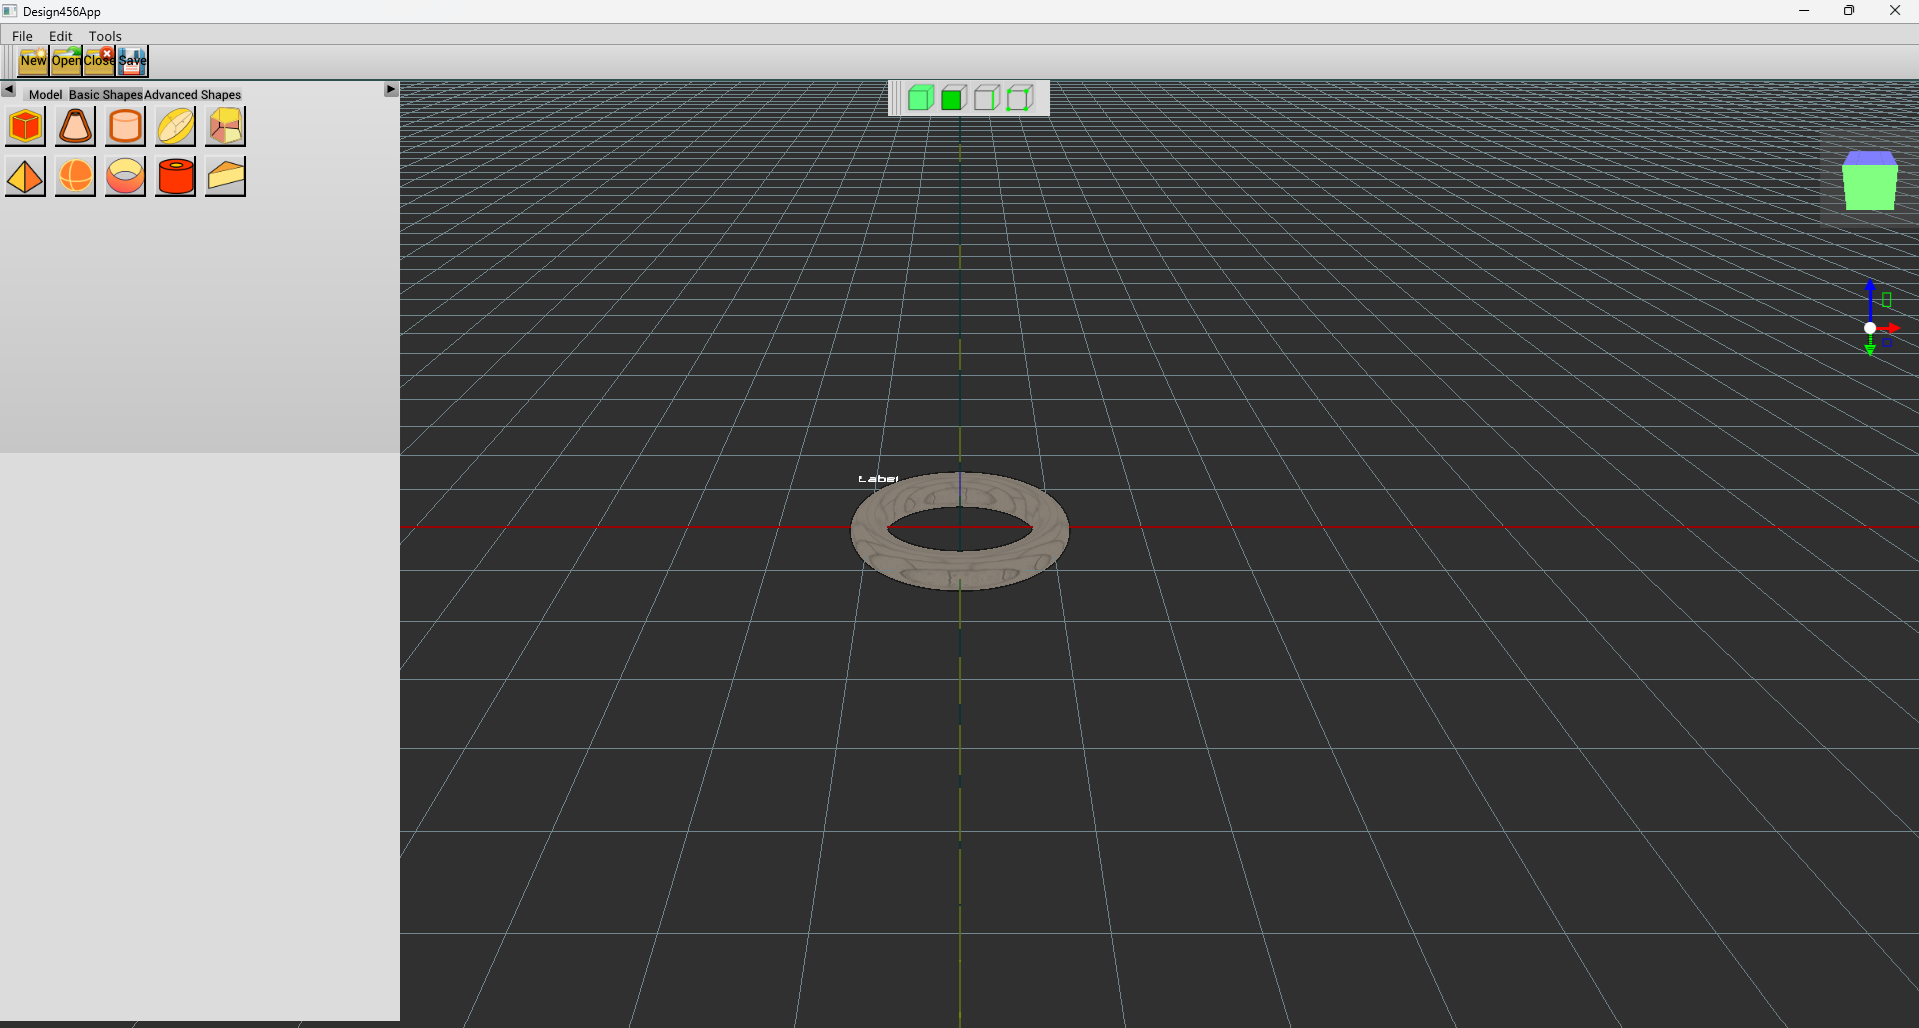
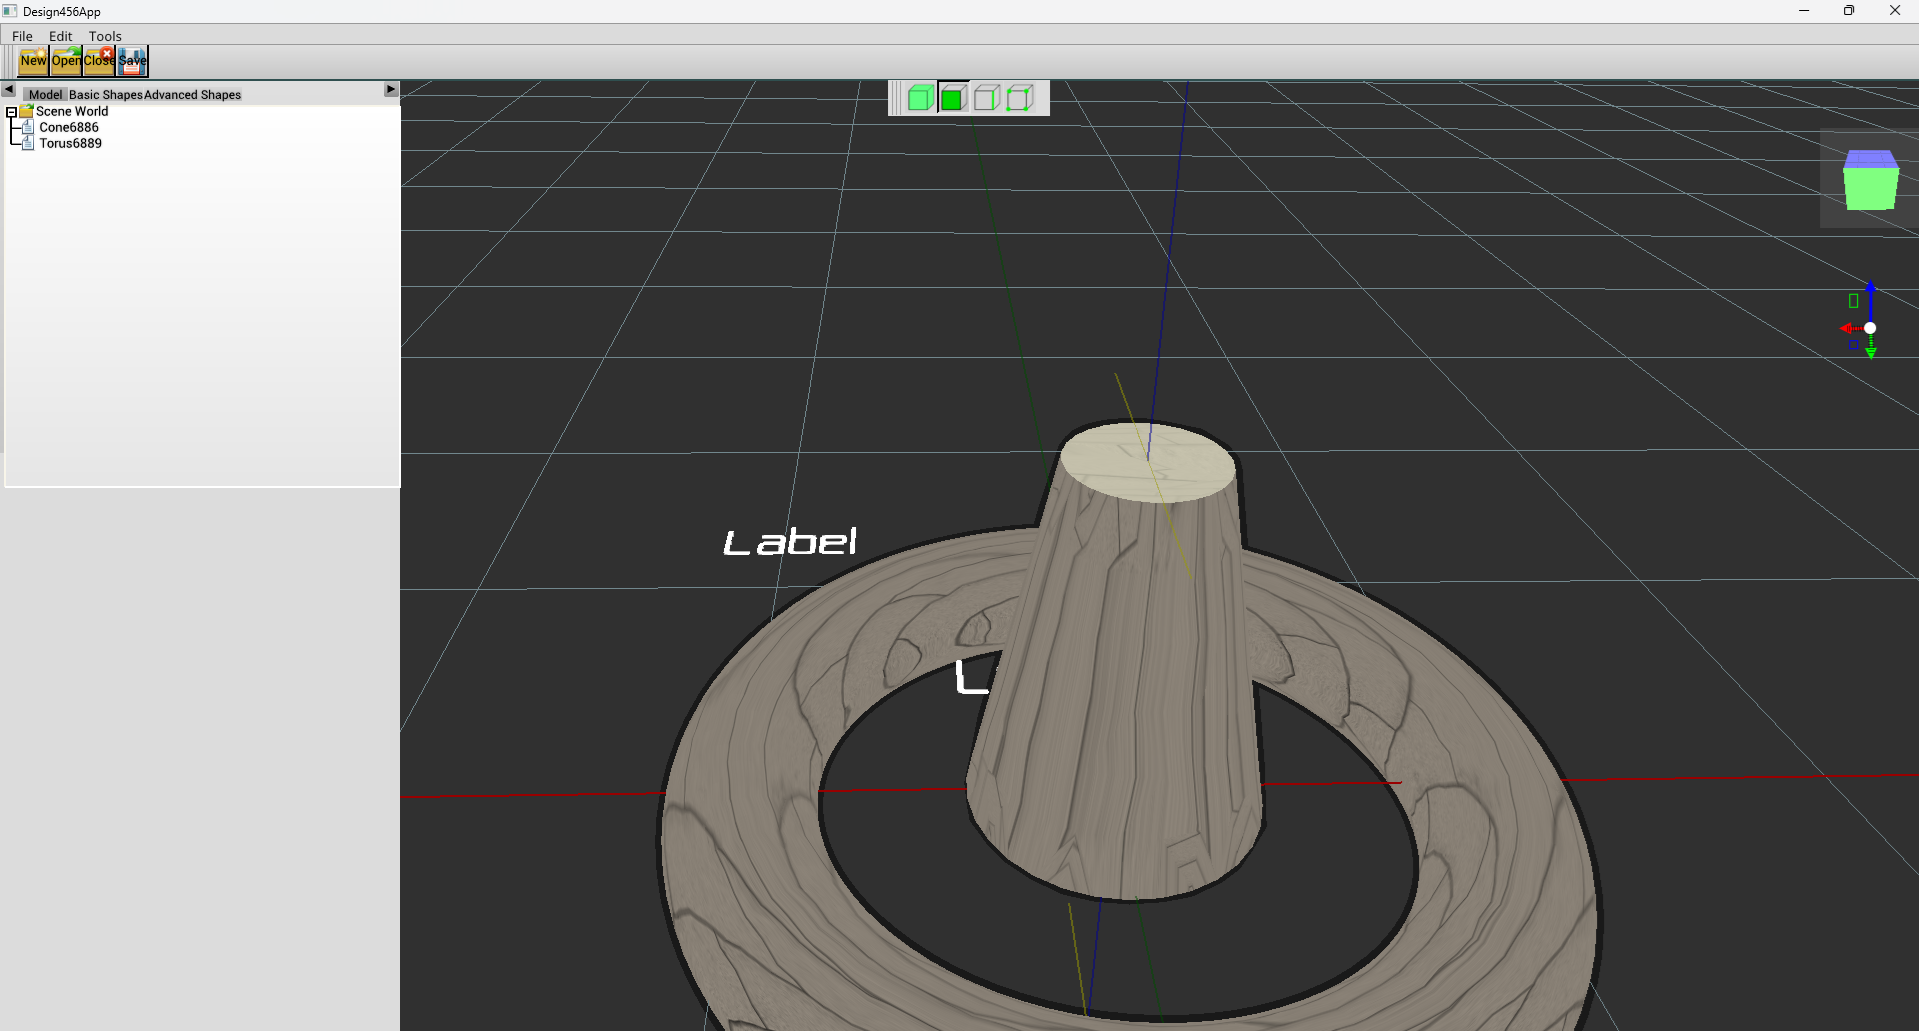
Selection bug fix

diff --git a/frtk/src/fr_scene.cpp b/frtk/src/fr_scene.cpp
@@ -523,7 +523,20 @@ namespace FR {
 
     int Fr_Scene::handle(int ev)
     {
-        int res = handle_selection(ev);
+        if (ev == FR_LEFT_PUSH || 
+            ev == FR_LEFT_RELEASE ||
+            ev == FR_RIGHT_PUSH ||
+            ev == FR_RIGHT_RELEASE ||
+            ev == FR_MIDDLE_PUSH ||
+            ev == FR_MIDDLE_RELEASE ||
+            ev == GLFW_MOUSE_DOUBLE_CLICK|| //NOT SURE IF IT IS CORRECT
+            ev == FR_LEFT_DRAG_MOVE ||
+            ev == FR_RIGHT_DRAG_MOVE ||
+            ev == FR_LEFT_DRAG_PUSH ||
+            ev == FR_RIGHT_DRAG_PUSH 
+              ){ 
+            int res = handle_selection(ev);
+        }
         for (auto& obj : m_world) {
             if (obj.Sceneitem->handle(ev) == 1) {
                 return 1; //Event is consumed
@@ -705,7 +718,7 @@ namespace FR {
 
         std::shared_ptr<FR::Fr_Window> win = FR::Fr_Window::getFr_Window();
         FRTK_CORE_APP_ASSERT(win != nullptr);
-        GLFWwindow* glfWin = Fr_Window::getCurrentGLWindow();
+        //GLFWwindow* glfWin = Fr_Window::getCurrentGLWindow();
 
         auto& em = win->m_sysEvents.mouse;
         auto& ek = win->m_sysEvents.keyB;
@@ -728,7 +741,9 @@ namespace FR {
             else {
                 MyMesh& mesh = m_world.at(IndexOfclosestItem).Sceneitem->m_mesh;
                 if (!ek.ctrlDown) {
-                    mesh.clearAllSelections();
+                    for (size_t i = 0; i < m_world.size(); ++i) {
+                        m_world.at(i).Sceneitem->m_mesh.clearAllSelections(); //Deselect all objects that are not visible
+                    }
                 }
                 if (m_world.at(IndexOfclosestItem).Sceneitem->m_boundBox->isRayInsideBoundingBox(m_activeRay)) {
                     switch (m_currentSelMode) {
